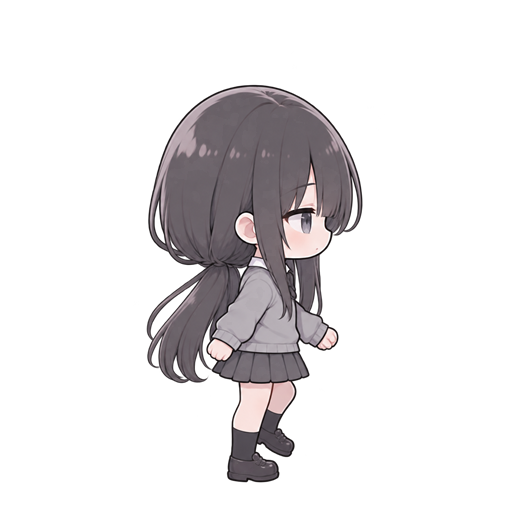
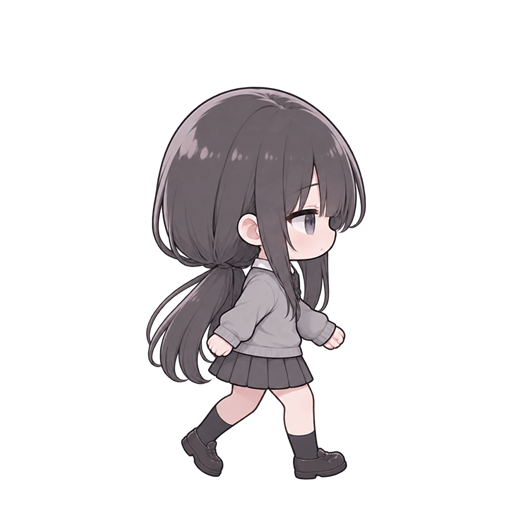
feat: expand Elise walk cycle to eight frames

Changed region(s): [[0.2812, 0.1562, 0.7188, 0.9688], [0.5, 0.2812, 0.5312, 0.3125]]

diff --git a/src/App.tsx b/src/App.tsx
@@ -18,16 +18,24 @@ const catImages: Record<CatPose, string> = {
   stretch: '/assets/cat/poses/stretch.png',
 };
 const eliseWalkImages = [
-  // Near-leg contact -> near-leg passing -> far-leg contact -> far-leg passing.
+  // Near leg: contact/down/pass/up; far leg: contact/down/pass/up.
   '/assets/elise/poses/walk_side_01.png',
   '/assets/elise/poses/walk_side_02.png',
   '/assets/elise/poses/walk_side_03.png',
   '/assets/elise/poses/walk_side_04.png',
+  '/assets/elise/poses/walk_side_05.png',
+  '/assets/elise/poses/walk_side_06.png',
+  '/assets/elise/poses/walk_side_07.png',
+  '/assets/elise/poses/walk_side_08.png',
 ];
 const catWalkImages = [
   '/assets/cat/poses/walk_01.png',
+  '/assets/cat/poses/walk_01.png',
   '/assets/cat/poses/walk_02.png',
   '/assets/cat/poses/walk_02.png',
+  '/assets/cat/poses/walk_02.png',
+  '/assets/cat/poses/walk_02.png',
+  '/assets/cat/poses/walk_01.png',
   '/assets/cat/poses/walk_01.png',
 ];
 
@@ -59,7 +67,7 @@ export function App() {
     const timer = window.setInterval(() => {
       setWalkFrame(current => (current + 1) % eliseWalkImages.length);
       setWalkOffset(current => {
-        const next = current + walkDirection * 5;
+        const next = current + walkDirection * 4;
         if (next >= 92) {
           setWalkDirection(-1);
           return 92;
@@ -70,7 +78,7 @@ export function App() {
         }
         return next;
       });
-    }, 300);
+    }, 220);
 
     return () => window.clearInterval(timer);
   }, [walking, walkDirection]);

diff --git a/README.md b/README.md
@@ -8,7 +8,7 @@ Elise-pet 是基于 Tauri 2、React 19 和 TypeScript 的透明桌面宠物。
 - 左键拖动 Elise，右键打开菜单
 - Elise 与独立小猫始终一起显示，小猫固定在人物脚边
 - 原版站立、坐下、睡觉与侧面走路完整 PNG
-- Elise 使用四帧完整 PNG、小猫使用双帧完整 PNG，同步在窗口内往返散步
+- Elise 使用八帧完整 PNG（双脚各四个步态阶段），小猫使用双帧完整 PNG，同步在窗口内往返散步
 - 本地聊天界面（AI API 尚未接入）
 
 运行时只切换 `public/assets/elise/poses/` 与 `public/assets/cat/poses/` 中的完整 PNG，不拼接角色部件。所有动作帧使用 512×512 透明画布。
